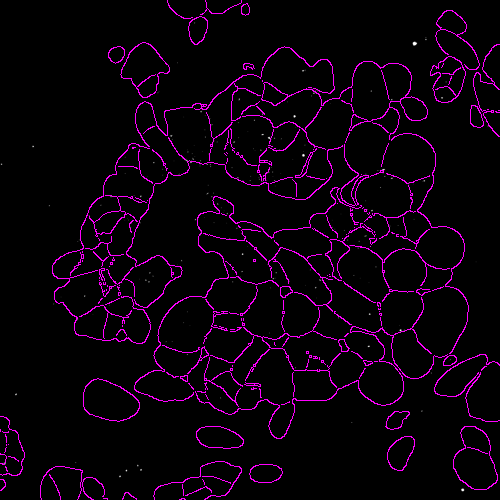
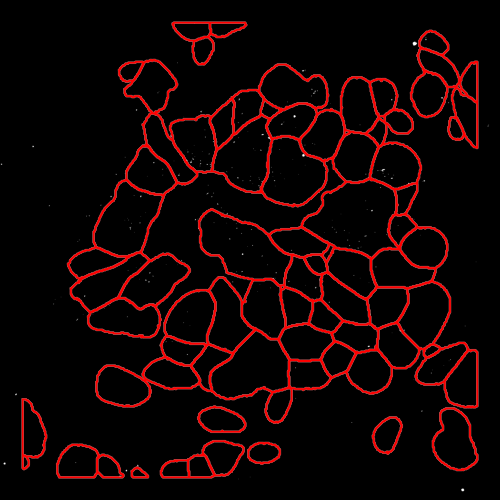
created overlay with new outline of mask onto dots (need to fix sizing of outline)

diff --git a/FISH_analysis/puncta_analysis.py b/FISH_analysis/puncta_analysis.py
@@ -87,7 +87,7 @@ class Puncta_Analysis:
     
         img.putdata(newData)
         img.save('analysis_output/mask_edges.png', "PNG")
-        self.mask_edges = 'analysis_output/mask_edges.png'
+        self.mask_edges = 'Images/SOX2_(G)._PAX6_(R)._PAX7_(FR)_40x_Spinal_Cords_Uninjured_001/Input/C4_SOX2_(G)._PAX6_(R)._PAX7_(FR)_40x_Spinal_Cords_Uninjured_001_otlines.png'
         
     def overlay(self):
         """
@@ -103,6 +103,16 @@ class Puncta_Analysis:
         img1 = Image.open(self.dots)
         
         # open the image of the mask
+        image = Image.open(self.mask_edges)
+        resized_image = image.resize((500, 500))
+        resized_image.save('analysis_output/outline.png')
+        self.mask_edges = 'analysis_output/outline.png'
+
+        image = Image.open(self.mask_edges)
+        rotated = image.rotate(270, expand=True)
+        rotated.save('analysis_output/outline.png')
+        self.mask_edges = 'analysis_output/outline.png'
+
         img2 = Image.open(self.mask_edges)
         
         # paste the mask on top of the dots

diff --git a/FISH_analysis/paint_algorithm.py b/FISH_analysis/paint_algorithm.py
@@ -277,6 +277,11 @@ if __name__ == "__main__":
     # print(new)
     # print(dimensions(image_copy))
     
+    for i in range(len(reshaped_colors)):
+        for j in range(len(reshaped_colors[i])):
+            if reshaped_colors[i][j] == 1:
+                print(str(i) + ',' + str(j))
+
     new2 = array_to_linear(image_copy)
     # print(new2)
 
